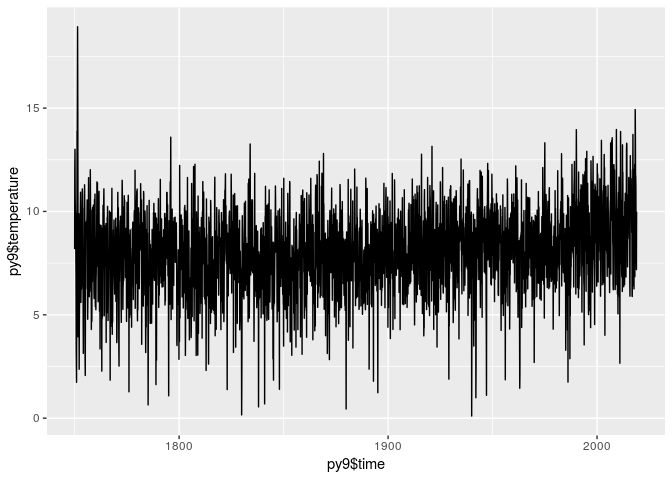
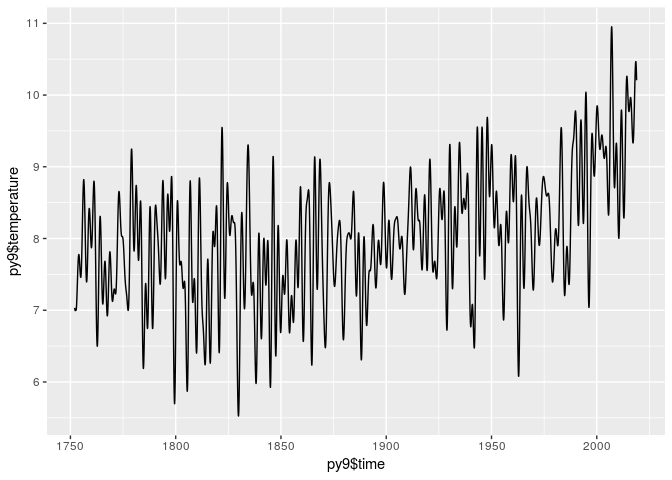
more fft

diff --git a/README.md b/README.md
@@ -53,6 +53,10 @@ mp + geom_raster(aes(fill=temperature))+
 
 ![](README_files/figure-html/plot-1.png)<!-- -->
 
+```r
+#hist(py2$temperature)
+```
+
 ## Plot more classical diagram
 
 
@@ -65,6 +69,11 @@ mp + geom_line(aes(y=jan$temperature, x=jan$year), color="blue") +
 ```
 
 ![](README_files/figure-html/classical-1.png)<!-- -->
+
+```r
+#hist(jan$temperature)
+#hist(jul$temperature)
+```
 
 ## Plot timeline
 
@@ -88,11 +97,16 @@ py8[0:2] <- py7[0:2]
 py8[(length(py8) - 3):length(py8)] <- py7[(length(py7) - 3):length(py7)]
 #py8[10:14] <- 0.0
 #py8[(length(py8) - 14):length(py8)-10] <- 0.0
+py8[520:(length(py8) - 520)] <- 0.0
+#py8[260:(length(py8)-260)] <- 0.0
+py8[130:(length(py8)-130)] <- 0.0
+
+#3198/12
 
 py9 <- py2
 py9$temperature <- Mod(fft(py8, inverse = TRUE))/length(py8)
 
-#py9 <- subset(py9, py9$year >= 1980)
+py9 <- subset(py9, py9$year >= 1752)
 
 mp <- ggplot()
 mp + geom_line(aes(y=py9$temperature, x=py9$time)) 
@@ -138,6 +152,10 @@ mp + geom_raster(aes(fill=temperature))+
 
 ![](README_files/figure-html/fft-5.png)<!-- -->
 
+```r
+#hist(py9$temperature)
+```
+
 ## Plot summer and winter of filtered set
 
 
@@ -150,6 +168,11 @@ mp + geom_line(aes(y=jan$temperature, x=jan$year), color="blue") +
 ```
 
 ![](README_files/figure-html/seasons-1.png)<!-- -->
+
+```r
+#hist(jan$temperature)
+#hist(jul$temperature)
+```
 
 ## Work with yearly and moving/rolling normalization
 
@@ -204,6 +227,10 @@ mp + geom_raster(aes(fill=temperature))+
 
 ![](README_files/figure-html/rolling-norm-1.png)<!-- -->
 
+```r
+#hist(norm$temperature)
+```
+
 
 
 ## Work with yearly and fixed normalization
@@ -244,3 +271,7 @@ mp + geom_raster(aes(fill=temperature))+
 ```
 
 ![](README_files/figure-html/fixed-norm-1.png)<!-- -->
+
+```r
+#hist(norm$temperature)
+```
